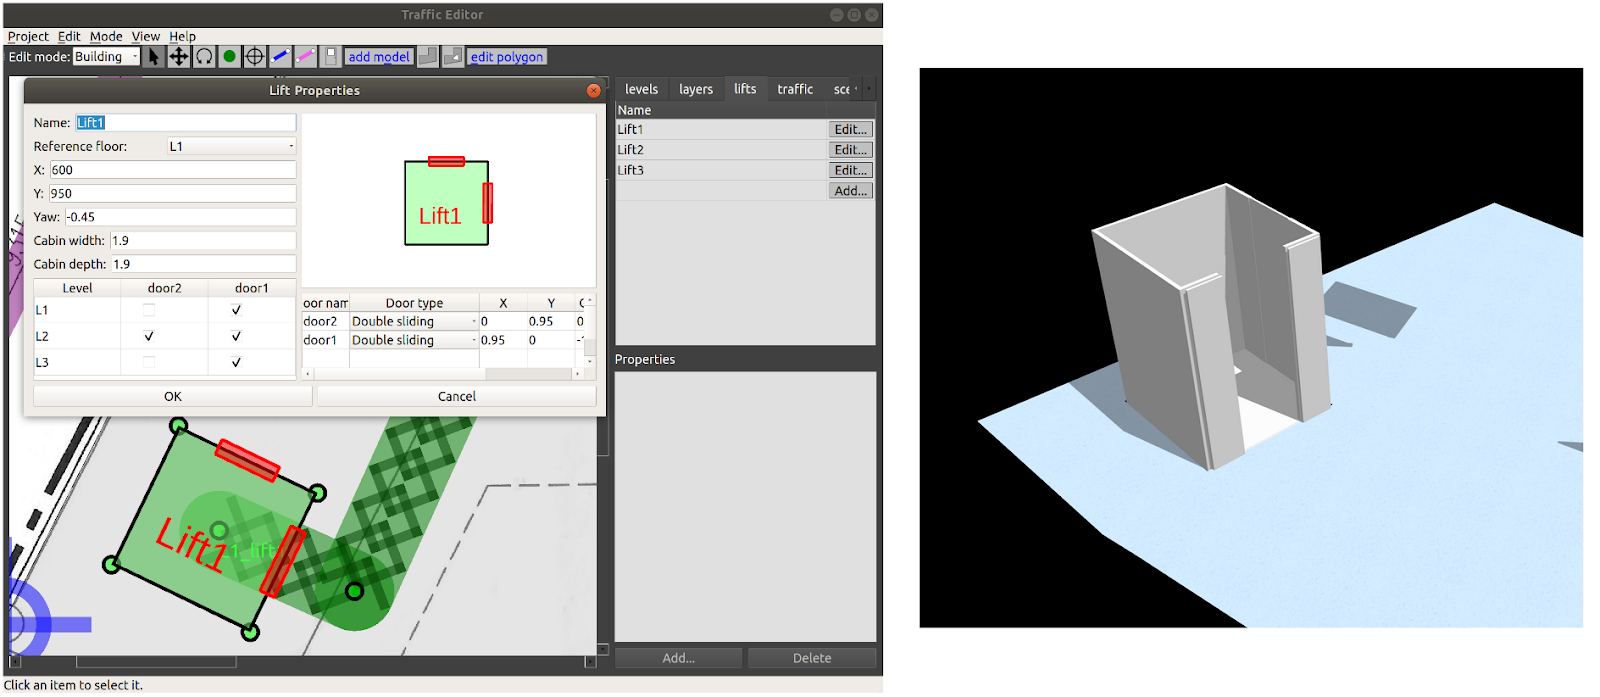
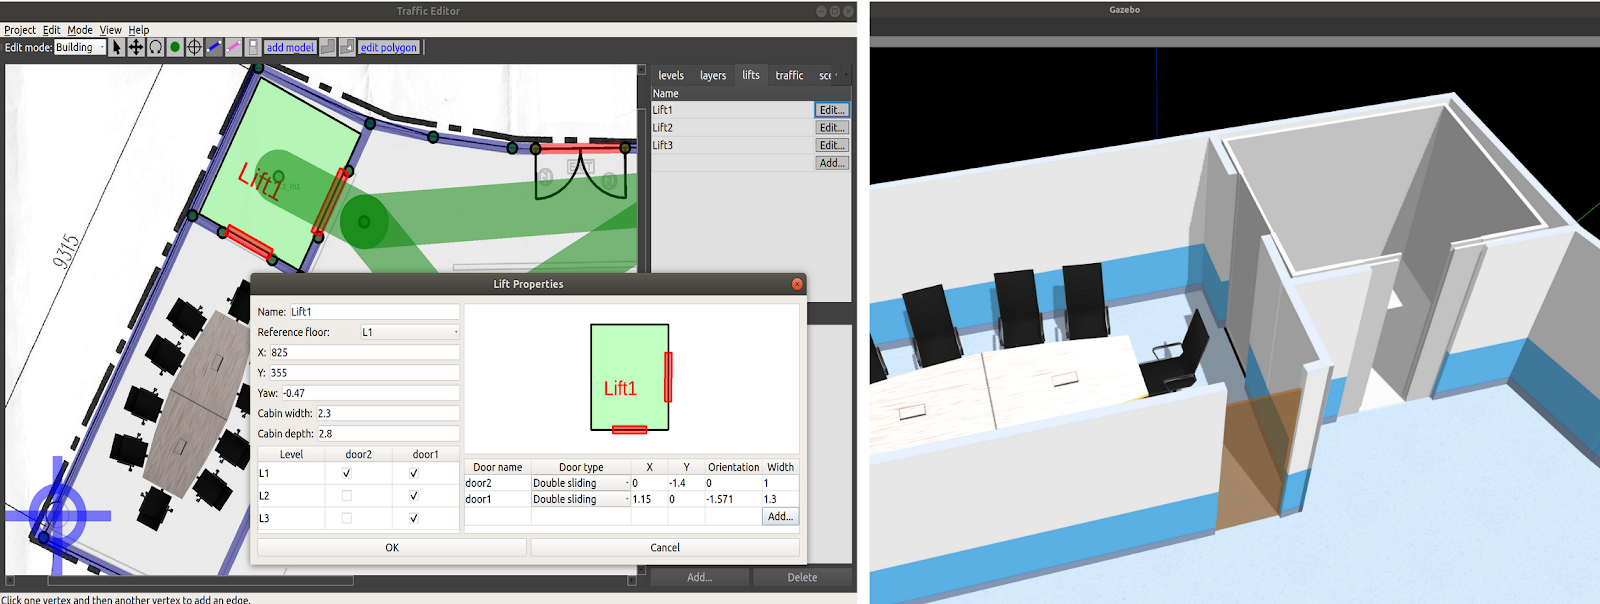
Updated figures and workcell description

diff --git a/src/simulation.md b/src/simulation.md
@@ -201,7 +201,7 @@ its ends, the type of door (hinged, double_hinged, sliding, double_sliding) and
 its range of motion (for hinged doors).
 
 
-![Figure X](images/door_traffic_editor.png)
+![](images/door_traffic_editor.png)
 
 The `building_map_generator gazebo` script parses a `.building.yaml` file for
 any doors and automatically generates an sdf sub-element with links and joints
@@ -275,10 +275,9 @@ To avoid situations where one robot requests a door to close on another robot, a
 #### Lifts
 The ability to test lift integration is crucial as these systems are often the operational bottlenecks in facilities given their shared usage by both humans and multi robot fleets. As with annotated doors, lifts can be customized in a number of ways in the `traffic_editor` gui including the dimension & orientation of the cabin and mapping cabin doors to building levels.
 
-TODO: update gazebo image
 ![](images/lift_traffic_editor.png)
 
-The `building_map_generator gazebo` script parses the `.building.yaml` file for lifts definitions and auto-generates the sdf elements for the cabin, cabin doors as well as lift shaft doors. A prismatic joint is defined at the base of the cabin which is actuated by the lift plugin to move the cabin between different levels. While the cabin doors are part of the cabin structure, the shaft doors are fixed to building. Both sets of doors open/close simultaneously at a given level and are controlled by the lift plugin itself. These doors are created using the same method as other doors in the building and include the door plugin as well. The `building_map_generator` also appends a lift [plugin](todo add link) element with required parameters to the lift's model sdf block.
+The `building_map_generator gazebo` script parses the `.building.yaml` file for lifts definitions and auto-generates the sdf elements for the cabin, cabin doors as well as lift shaft doors. A prismatic joint is defined at the base of the cabin which is actuated by the lift plugin to move the cabin between different levels. While the cabin doors are part of the cabin structure, the shaft doors are fixed to building. Both sets of doors open/close simultaneously at a given level and are controlled by the lift plugin itself. These doors are created using the same method as other doors in the building and include the door plugin as well. The `building_map_generator` also appends a lift plugin todo add link element with required parameters to the lift's model sdf block.
 
 ```xml
 <plugin filename="liblift.so" name="lift">
@@ -307,19 +306,26 @@ Analogous to the `door_supervisor`, a `lift_supervisor` [node](https://github.co
 
 
 #### Workcells
-Robots performing deliveries within facilities is a common use case and hence a `Delivery` task is configured into the `rmf_fleet_adapters`. In a delivery task, a payload is loaded onto the robot at one location and unloaded at another. The loading and unloading of the payload may be automated by a robot/workcell in a facility. To integrate these systems (generalized as "dispensers") with RMF core systems, a set of dispenser messages are [defined](https://github.com/osrf/rmf_core/tree/master/rmf_dispenser_msgs/msg). When the robot reaches the loading station, the `rmf_fleet_adapter` publishes a `DispenserRequest` message which the dispenser receives and begins processing. When the dispensing is successful, the dispenser is required to publish a `DispenserResult` message with `SUCCESS` status. The `rmf_fleet_adapter` then instructs the robot to proceed to the unloading station where a similar set of messages are exchanged with the workcell unloading the payload.
+Robots performing deliveries within facilities is a common use case and hence a `Delivery` task is configured into the `rmf_fleet_adapters`. In a delivery task, a payload is loaded onto the robot at one location and unloaded at another. The loading and unloading of the payload may be automated by a robot/workcell in the facility. To integrate these systems with RMF core systems, a set of dispenser messages are [defined](https://github.com/osrf/rmf_core/tree/master/rmf_dispenser_msgs/msg). Despite their names, the messages are generalized for use by systems other than dispensers as well. When a robot reaches the loading station, its `rmf_fleet_adapter` publishes a `DispenserRequest` message which the station receives and begins processing. When the loading is successful, the station publishes a `DispenserResult` message with `SUCCESS` status. The `rmf_fleet_adapter` then instructs the robot to proceed to the unloading station where a similar set of messages are exchanged with the workcell unloading the payload.
 
-To replicate this delivery behavior in simulation, the `TeleportDispenser` and `TeleportIngestor` [plugins](https://github.com/osrf/rmf_demos/tree/master/rmf_gazebo_plugins/src) are designed. These plugins are loaded into [3D models](https://github.com/osrf/rmf_demos/tree/master/rmf_demo_assets/models) the same names.
-To setup a payload loading station:
-* Assign a `workcell_name` attribute to the waypoint (see figure below)
-* Add a `TeleportDispenser` model beside the waypoint with `name` matching the `workcell_name`
+To replicate the loading and unloading processes in simulation, the `TeleportDispenser` and `TeleportIngestor` [plugins](https://github.com/osrf/rmf_demos/tree/master/rmf_gazebo_plugins/src) are designed. These plugins are attached to the `TeleportDispenser` and `TeleportIngestor` [3D models](https://github.com/osrf/rmf_demos/tree/master/rmf_demo_assets/models) respectively.
+To setup a payload loading station in simulation:
+* Add a `TeleportDispenser` model beside the pickup waypoint and assign it a
+  unique `name`.
 * Add the payload model beside the `TeleportDispenser` model (Coke can in image below)
 
-To setup a payload unloading station:
-* Assign a `workcell_name` attribute to the waypoint (see figure below)
-* Add a `TeleportIngestor` model beside the waypoint with `name` matching the `workcell_name`
+To setup a payload unloading station in simulation:
+* Add a `TeleportIngestor` model beside the dropoff waypoint and assign it a
+  unique `name`.
 
-When a `DispenserRequest` message is published with `target_guid` matching the name of the `TeleportDispenser` model, the plugin will teleport the payload onto the nearest robot model. Conversely, when the `target_guid` matches the name of the `TeleportIngestor` model, the `TeleportIngestor` plugin will teleport the payload on the robot to its location in the world. The combinations of these plugins allow for delivery requests to be simulation. In the future, this mechanism will be replaced by actual workcells or robot arms but the underlying message exchanges will remain the same.
+When a `DispenserRequest` message is published with `target_guid` matching the
+name of the `TeleportDispenser` model, the plugin will teleport the payload onto
+the nearest robot model. Conversely, when the `target_guid` matches the name of
+the `TeleportIngestor` model, the `TeleportIngestor` plugin will teleport the
+payload on the robot to its location in the world. The combinations of these
+plugins allow delivery requests to be simulated. In the future, these mechanisms
+will be replaced by actual workcells or robot arms but the underlying message
+exchanges will remain the same.
 
 ![](images/dispensers.png)
 
@@ -327,7 +333,7 @@ When a `DispenserRequest` message is published with `target_guid` matching the n
 The section aims to provide an overview of the various components in the `rmf_demos` [repository](https://github.com/osrf/rmf_demos) which may serve as a reference for setting up other simulations and assigning tasks to robots. Here, we will focus on the `office` world.
 
 #### Map package
-The `rmf_demo_maps` package houses annotated `traffic_editor` files which will be used for the 3D world generation. Opening the `office.project.yaml` file in `traffic_editor` reveals a single level floorplan that has walls, floors, scale measurements, doors, lanes and models annotated. All the robot lanes are set to `bidirectional` with `graph_idx` equal to "0". The latter signifies that all the lanes belong to the same fleet. In the `airport` world, we have two sets of graphs with indices "0" and "1" which reflect laneways occupiable by two fleets respectively. The figures below highlight special attributes assigned to certain waypoints to indicate robot spawn locations as well as disperser workcells.
+The `rmf_demo_maps` package houses annotated `traffic_editor` files which will be used for the 3D world generation. Opening the `office.project.yaml` file in `traffic_editor` reveals a single level floorplan that has walls, floors, scale measurements, doors, lanes and models annotated. All the robot lanes are set to `bidirectional` with `graph_idx` equal to "0". The latter signifies that all the lanes belong to the same fleet. In the `airport` world, we have two sets of graphs with indices "0" and "1" which reflect laneways occupiable by two fleets respectively. The figure below highlights properties assigned to a lane and a waypoint that serves as a robot spawn location.
 
 ![](images/rmf_demo_maps.png)
 
